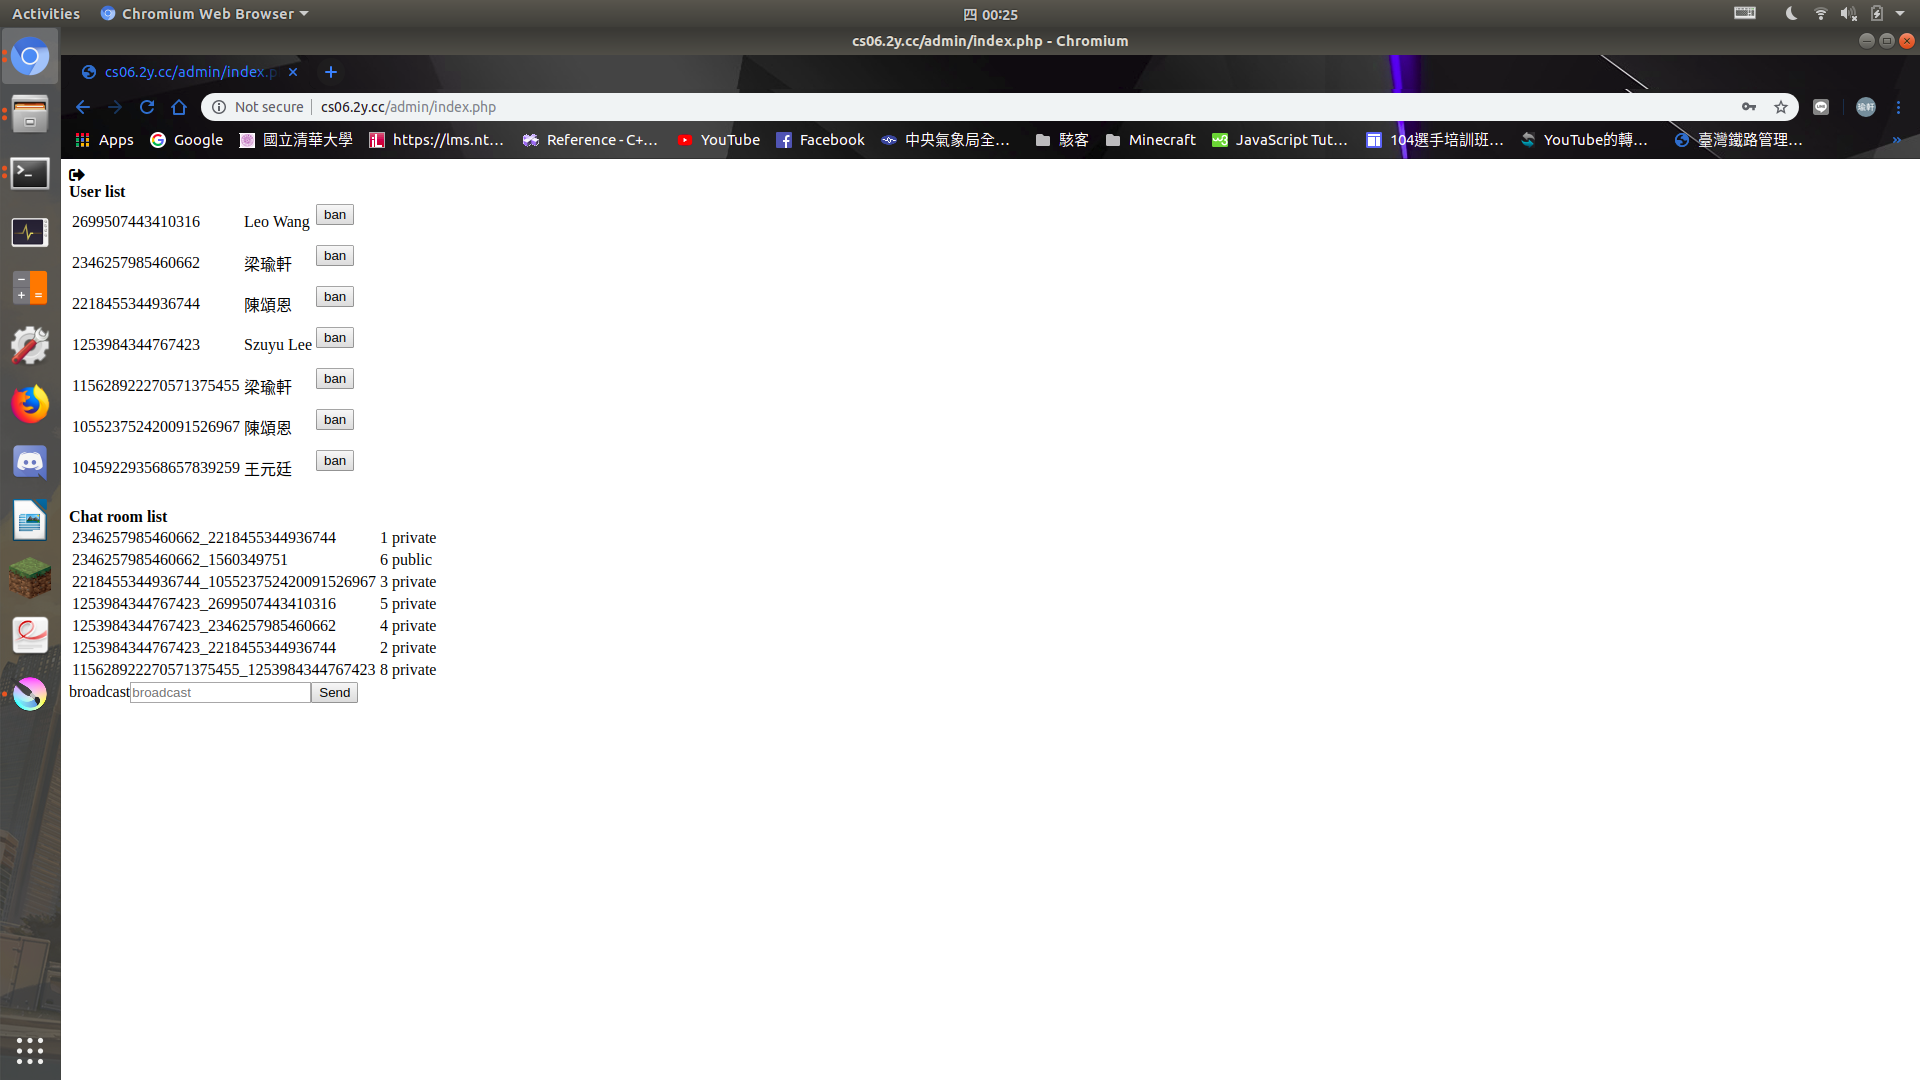
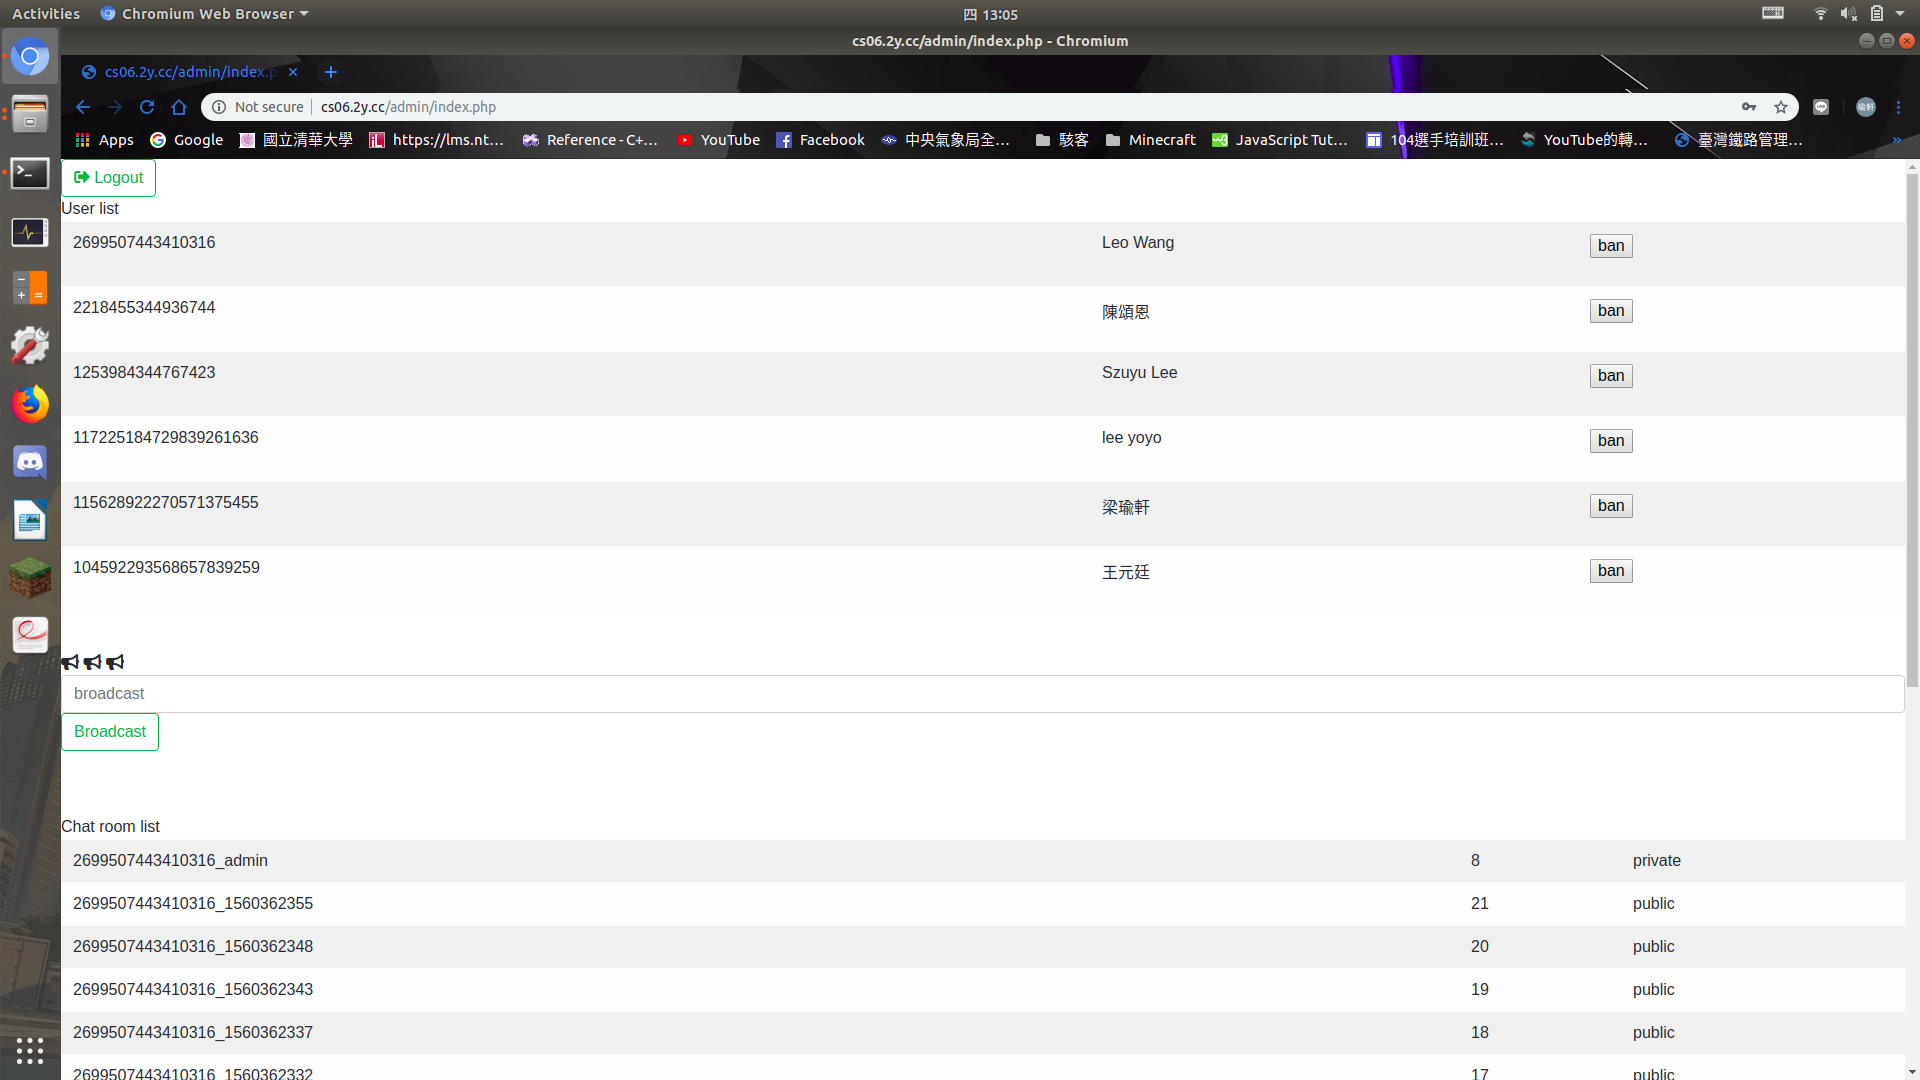
update changelog

diff --git a/CHANGELOG.md b/CHANGELOG.md
@@ -9,7 +9,7 @@ and this project adheres to [Semantic Versioning](https://semver.org/spec/v2.0.0
 
 ## 0.2.9 - 2019-06-13 - s106062328(szlee118)
 ## Added
-- Add css layers in chat_room/add_freind create_private/public_room  and admin
+- Add css layers in chat\_room/add\_freind create\_private/public\_room  and admin
 
 ## 0.2.8 - 2019-06-13 - ytwang
 ## Fixed
